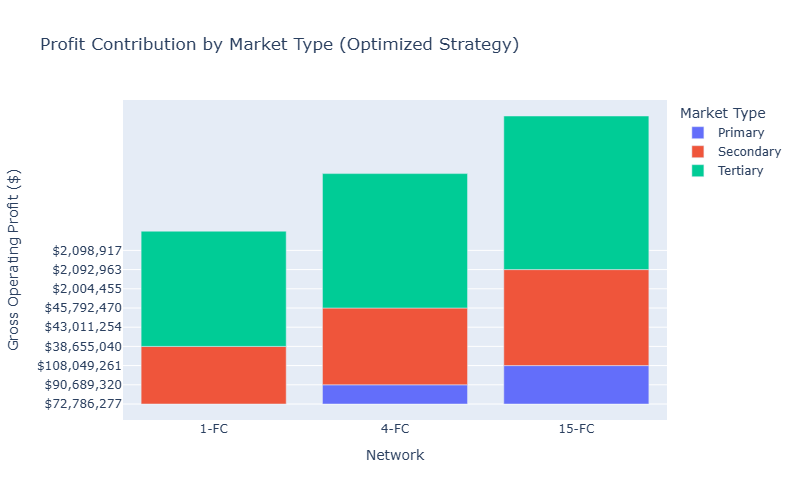
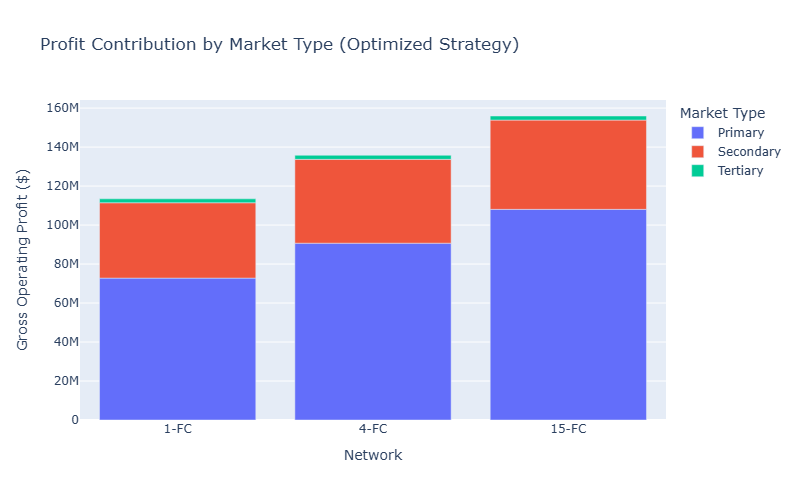
task6 pre final commit

diff --git a/CW1/src/task6.py b/CW1/src/task6.py
@@ -1,33 +1,29 @@
 # ==============================================================================
 # ISYE 6202, Casework 1, Fall 2025
-# Task 6 Solution Script - Final Corrected Version
+# Task 6 Solution Script - Final Definitive Version
 #
 # Description:
 # This script proposes an optimized Order-to-Delivery (OTD) time promise
-# for each market type (Primary, Secondary, Tertiary) with the goal of
-# maximizing the overall gross operating profit.
-# It is corrected based on the specific column names in the provided CSV files.
+# for each market type to maximize profit. It computes the detailed financials
+# for this optimal strategy and contrasts it with extreme scenarios.
 # ==============================================================================
 
 # --- 1. SETUP AND CONFIGURATION ---
 
 import pandas as pd
 import numpy as np
-from pathlib import Path
 import plotly.express as px
+from pathlib import Path
 
 # --- Configuration ---
-# Set up the absolute directories for inputs and outputs.
 BASE_DIR = Path(r"D:\Adarsh GATech Files\6335 Benoit SC1\CW1\ISyE6202_CW1\CW1")
 DATA_DIR = BASE_DIR / "data"
 TASK3_OUTPUT_DIR = BASE_DIR / "output" / "task3"
 TASK5_OUTPUT_DIR = BASE_DIR / "output" / "task5"
 OUTPUT_DIR = BASE_DIR / "output" / "task6"
-
-# Create the output directory if it doesn't already exist.
 OUTPUT_DIR.mkdir(parents=True, exist_ok=True)
 
-# --- Financial Constants from the Casework ---
+# --- Financial Constants ---
 PRICE_PER_UNIT = 3000
 COGS_PER_UNIT = 750
 
@@ -36,7 +32,6 @@ def load_data():
     Loads all necessary input CSV files and corrects the market_type data.
     """
     print("Loading input data...")
-    
     paths = {
         "seasonalities": DATA_DIR / "demand_seasonalities.csv",
         "zip3_pmf": DATA_DIR / "zip3_pmf.csv",
@@ -46,7 +41,6 @@ def load_data():
         "assign_15fc": TASK3_OUTPUT_DIR / "assignment_15FC.csv",
         "task5_summary": TASK5_OUTPUT_DIR / "task5_financial_summary.csv",
     }
-    
     data = {}
     for name, path in paths.items():
         try:
@@ -56,15 +50,12 @@ def load_data():
             print("Please make sure Task 5 has been run and its output CSV exists.")
             exit()
             
-    # --- DATA CORRECTION STEP (CRITICAL FIX) ---
-    # 1. Prepare the CORRECT market type data from 'zip3_market.csv'.
-    correct_markets = data['zip3_market']
+    correct_markets = data['zip3_market'].copy()
     correct_markets.columns = [c.strip().lower() for c in correct_markets.columns]
     correct_markets['zip3'] = correct_markets['zip3'].astype(str).str.zfill(3)
     correct_markets['market'] = correct_markets['market'].str.title()
     correct_markets.rename(columns={'market': 'market_type'}, inplace=True)
     
-    # 2. Correct the assignment files.
     for key in ["assign_1fc", "assign_4fc", "assign_15fc"]:
         data[key]['zip3'] = data[key]['zip3'].astype(str).str.zfill(3)
         if 'market_type' in data[key].columns:
@@ -102,27 +93,17 @@ def solve_task_6(df_demand, df_assignment, network_name, df_conversion, df_shipp
     and compares this strategy to the extremes.
     """
     print(f"Running optimization for {network_name} network...")
-
-    # Justification of Optimization Model (as per casework instructions)
-    # The heuristic algorithm used here is a form of greedy optimization. For each
-    # market type, we calculate the total gross operating profit for every possible
-    # OTD promise. We then select the OTD promise that yields the maximum profit
-    # for that specific market, independent of the others.
     
     df_full = pd.merge(df_demand, df_assignment, on='zip3')
     df_expanded = pd.merge(df_full, df_conversion, left_on='market_type', right_on='Market')
     df_expanded = pd.merge(df_expanded, df_shipping, on=['distance_bucket', 'otd_promise'])
     
-    # Calculate all financial metrics for every possibility
     df_expanded['converted_demand'] = df_expanded['demand_units'] * df_expanded['conversion_rate']
     df_expanded['total_revenue'] = df_expanded['converted_demand'] * PRICE_PER_UNIT
     df_expanded['total_shipping_cost'] = df_expanded['converted_demand'] * df_expanded['shipping_cost_per_unit']
     df_expanded['total_cogs'] = df_expanded['converted_demand'] * COGS_PER_UNIT
-    df_expanded['gross_operating_profit'] = (df_expanded['total_revenue'] - 
-                                             df_expanded['total_shipping_cost'] - 
-                                             df_expanded['total_cogs'])
+    df_expanded['gross_operating_profit'] = (df_expanded['total_revenue'] - df_expanded['total_shipping_cost'] - df_expanded['total_cogs'])
     
-    # Group by market and OTD to find the profit and other financials for each choice
     financials_by_choice = df_expanded.groupby(['market_type', 'otd_promise']).agg(
         gross_operating_profit=('gross_operating_profit', 'sum'),
         total_revenue=('total_revenue', 'sum'),
@@ -130,21 +111,16 @@ def solve_task_6(df_demand, df_assignment, network_name, df_conversion, df_shipp
         total_cogs=('total_cogs', 'sum')
     ).reset_index()
     
-    # THE OPTIMIZATION: For each market, find the OTD promise with the highest profit
     optimal_choices = financials_by_choice.loc[financials_by_choice.groupby('market_type')['gross_operating_profit'].idxmax()]
     optimal_choices['OTD Promise (Days)'] = optimal_choices['otd_promise'].apply(lambda x: str(x) if x < 6 else '5+')
     optimal_choices['Network'] = network_name
     
-    # --- Comparison with Extreme Solutions ---
     optimized_profit = optimal_choices['gross_operating_profit'].sum()
     task5_network_summary = df_task5_summary[df_task5_summary['Network'] == network_name]
     profit_1_day_all = task5_network_summary[task5_network_summary['OTD Promise (Days)'] == '1']['Gross Operating Profit'].iloc[0]
     profit_5plus_day_all = task5_network_summary[task5_network_summary['OTD Promise (Days)'] == '5+']['Gross Operating Profit'].iloc[0]
 
-    comparison_data = {
-        'Strategy': ['Optimized (Best for each Market)', '1-Day Promise for ALL', '5+ Day Promise for ALL'],
-        'Gross Operating Profit': [optimized_profit, profit_1_day_all, profit_5plus_day_all]
-    }
+    comparison_data = {'Strategy': ['Optimized (Best for each Market)', '1-Day Promise for ALL', '5+ Day Promise for ALL'], 'Gross Operating Profit': [optimized_profit, profit_1_day_all, profit_5plus_day_all]}
     comparison_df = pd.DataFrame(comparison_data)
     comparison_df['Network'] = network_name
     
@@ -173,90 +149,49 @@ def main():
         all_optimal_choices.append(optimal_df)
         all_comparisons.append(comparison_df)
         
-    final_optimal_choices = pd.concat(all_optimal_choices).set_index(['Network', 'market_type'])
-    final_comparisons = pd.concat(all_comparisons).set_index(['Network', 'Strategy'])
-
-    # --- Save Outputs ---
-    print("Analysis complete. Saving outputs...")
+    # Create final dataframes with raw numbers for plotting
+    final_optimal_choices = pd.concat(all_optimal_choices)
+    final_comparisons = pd.concat(all_comparisons)
     
-    # Format currency for better readability in the CSV
-    final_optimal_choices['gross_operating_profit'] = final_optimal_choices['gross_operating_profit'].map('${:,.0f}'.format)
-    final_comparisons['Gross Operating Profit'] = final_comparisons['Gross Operating Profit'].map('${:,.0f}'.format)
-
+    print("Analysis complete. Saving primary outputs...")
+    # Create FORMATTED copies for saving to CSV
+    optimal_choices_to_save = final_optimal_choices.set_index(['Network', 'market_type']).copy()
+    optimal_choices_to_save['gross_operating_profit'] = optimal_choices_to_save['gross_operating_profit'].map('${:,.0f}'.format)
     optimal_policy_path = OUTPUT_DIR / "task6_optimal_policy.csv"
-    final_optimal_choices[['OTD Promise (Days)', 'gross_operating_profit']].to_csv(optimal_policy_path)
+    optimal_choices_to_save[['OTD Promise (Days)', 'gross_operating_profit']].to_csv(optimal_policy_path)
     print(f"-> Optimal Policy table saved to: {optimal_policy_path}")
 
+    comparisons_to_save = final_comparisons.set_index(['Network', 'Strategy']).copy()
+    comparisons_to_save['Gross Operating Profit'] = comparisons_to_save['Gross Operating Profit'].map('${:,.0f}'.format)
     comparison_path = OUTPUT_DIR / "task6_profit_comparison.csv"
-    final_comparisons.to_csv(comparison_path)
+    comparisons_to_save.to_csv(comparison_path)
     print(f"-> Profit Comparison table saved to: {comparison_path}")
 
-# --- Additional CSV and Visualizations for Task 6 ---
+    # --- Additional CSV and Visualizations for Task 6 ---
     print("\nGenerating additional outputs for Task 6...")
 
-    # --- Additional CSV 1: Detailed Financials of the Optimal Policy ---
     detailed_optimal_path = OUTPUT_DIR / "task6_optimal_policy_details.csv"
-    # FIX IS HERE: Use .reset_index() to turn the index ('Network', 'market_type') back into columns before selecting.
-    detailed_optimal_df = final_optimal_choices.reset_index()
-    # Now we can select the columns we want for the final CSV.
-    detailed_optimal_df = detailed_optimal_df[['Network', 'market_type', 'OTD Promise (Days)', 'gross_operating_profit', 'total_revenue', 'total_shipping_cost', 'total_cogs']]
+    detailed_optimal_df = final_optimal_choices[['Network', 'market_type', 'OTD Promise (Days)', 'gross_operating_profit', 'total_revenue', 'total_shipping_cost', 'total_cogs']]
     detailed_optimal_df.to_csv(detailed_optimal_path, index=False)
     print(f"-> Detailed optimal policy financials saved to: {detailed_optimal_path}")
 
-    # --- Additional Viz 1: Max Achievable Profit by Network (Executive Summary) ---
-    # Prepare data by un-formatting the currency and getting only the optimized results
-    comparison_for_plot = pd.concat(all_comparisons)
-    max_profit_df = comparison_for_plot[comparison_for_plot['Strategy'] == 'Optimized (Best for each Market)'].sort_values('Gross Operating Profit', ascending=False)
-    
-    fig1 = px.bar(max_profit_df,
-                  x='Network', y='Gross Operating Profit', color='Network',
-                  title='Max Optimized Profit by Network Configuration',
-                  labels={'Gross Operating Profit': 'Max Gross Operating Profit ($)'})
-    fig1_path = OUTPUT_DIR / "task6_viz_max_profit_by_network.png"
-    fig1.write_image(fig1_path, width=800, height=500)
-    print(f"-> Max profit chart saved to: {fig1_path}")
+    max_profit_df = final_comparisons[final_comparisons['Strategy'] == 'Optimized (Best for each Market)'].sort_values('Gross Operating Profit', ascending=False)
+    fig1 = px.bar(max_profit_df, x='Network', y='Gross Operating Profit', color='Network', title='Max Optimized Profit by Network Configuration', labels={'Gross Operating Profit': 'Max Gross Operating Profit ($)'})
+    fig1_path = OUTPUT_DIR / "task6_viz_max_profit_by_network.png"; fig1.write_image(fig1_path, width=800, height=500); print(f"-> Max profit chart saved to: {fig1_path}")
 
-    # --- Additional Viz 2: Optimal OTD Policy by Network ---
-    # Prepare data by converting OTD promise to a number for plotting
-    policy_df = final_optimal_choices.reset_index() # Also reset index here for plotting
-    policy_df['OTD Promise (Numeric)'] = pd.to_numeric(policy_df['OTD Promise (Days)'].replace('5+', 6))
-    
-    fig2 = px.bar(policy_df,
-                  x='market_type', y='OTD Promise (Numeric)', color='Network', barmode='group',
-                  title='Optimal OTD Promise Policy by Market and Network',
-                  labels={'market_type': 'Market Type', 'OTD Promise (Numeric)': 'Optimal OTD Promise (Days)'},
-                  category_orders={'market_type': ['Primary', 'Secondary', 'Tertiary']})
-    fig2_path = OUTPUT_DIR / "task6_viz_optimal_policy.png"
-    fig2.write_image(fig2_path, width=800, height=500)
-    print(f"-> Optimal policy chart saved to: {fig2_path}")
+    policy_df = final_optimal_choices.copy(); policy_df['OTD Promise (Numeric)'] = pd.to_numeric(policy_df['OTD Promise (Days)'].replace('5+', 6))
+    fig2 = px.bar(policy_df, x='market_type', y='OTD Promise (Numeric)', color='Network', barmode='group', title='Optimal OTD Promise Policy by Market and Network', labels={'market_type': 'Market Type', 'OTD Promise (Numeric)': 'Optimal OTD Promise (Days)'}, category_orders={'market_type': ['Primary', 'Secondary', 'Tertiary']})
+    fig2_path = OUTPUT_DIR / "task6_viz_optimal_policy.png"; fig2.write_image(fig2_path, width=800, height=500); print(f"-> Optimal policy chart saved to: {fig2_path}")
 
-    # --- Additional Viz 3: Profit Contribution by Market Type ---
-    fig3 = px.bar(final_optimal_choices.reset_index(), # Also reset index here
-                  x='Network', y='gross_operating_profit', color='market_type',
-                  title='Profit Contribution by Market Type (Optimized Strategy)',
-                  labels={'gross_operating_profit': 'Gross Operating Profit ($)', 'market_type': 'Market Type'},
-                  category_orders={'market_type': ['Primary', 'Secondary', 'Tertiary']})
-    fig3_path = OUTPUT_DIR / "task6_viz_profit_contribution.png"
-    fig3.write_image(fig3_path, width=800, height=500)
-    print(f"-> Profit contribution chart saved to: {fig3_path}")
+    fig3 = px.bar(final_optimal_choices, x='Network', y='gross_operating_profit', color='market_type', title='Profit Contribution by Market Type (Optimized Strategy)', labels={'gross_operating_profit': 'Gross Operating Profit ($)', 'market_type': 'Market Type'}, category_orders={'market_type': ['Primary', 'Secondary', 'Tertiary']})
+    fig3_path = OUTPUT_DIR / "task6_viz_profit_contribution.png"; fig3.write_image(fig3_path, width=800, height=500); print(f"-> Profit contribution chart saved to: {fig3_path}")
     
-    # --- Additional Viz 4: The Value of Optimization (%) ---
-    # Find the best "single policy" profit from the Task 5 results
-    task5_summary = data_files['task5_summary']
-    best_single_profits = task5_summary.groupby('Network')['Gross Operating Profit'].max()
-    comparison_for_plot = comparison_for_plot.set_index('Network')
-    comparison_for_plot['Best Single Profit'] = best_single_profits
-    # Calculate the percentage uplift
-    optimized_summary = comparison_for_plot[comparison_for_plot['Strategy'] == 'Optimized (Best for each Market)']
+    task5_summary = data_files['task5_summary']; best_single_profits = task5_summary.groupby('Network')['Gross Operating Profit'].max(); comparison_for_plot = final_comparisons.set_index('Network'); comparison_for_plot['Best Single Profit'] = best_single_profits
+    optimized_summary = comparison_for_plot[comparison_for_plot['Strategy'] == 'Optimized (Best for each Market)'].copy()
     optimized_summary['Profit Uplift (%)'] = ((optimized_summary['Gross Operating Profit'] / optimized_summary['Best Single Profit']) - 1) * 100
+    fig4 = px.bar(optimized_summary.reset_index(), x='Network', y='Profit Uplift (%)', color='Network', title='Value of Optimization: Profit Uplift vs. Best Single Policy', labels={'Profit Uplift (%)': 'Profit Increase from Optimization (%)'})
+    fig4_path = OUTPUT_DIR / "task6_viz_optimization_value.png"; fig4.write_image(fig4_path, width=800, height=500); print(f"-> Optimization value chart saved to: {fig4_path}")
     
-    fig4 = px.bar(optimized_summary.reset_index(),
-                  x='Network', y='Profit Uplift (%)', color='Network',
-                  title='Value of Optimization: Profit Uplift vs. Best Single Policy',
-                  labels={'Profit Uplift (%)': 'Profit Increase from Optimization (%)'})
-    fig4_path = OUTPUT_DIR / "task6_viz_optimization_value.png"
-    fig4.write_image(fig4_path, width=800, height=500)
-    print(f"-> Optimization value chart saved to: {fig4_path}")
     print("\nScript finished successfully! 🎉")
 
 if __name__ == "__main__":
